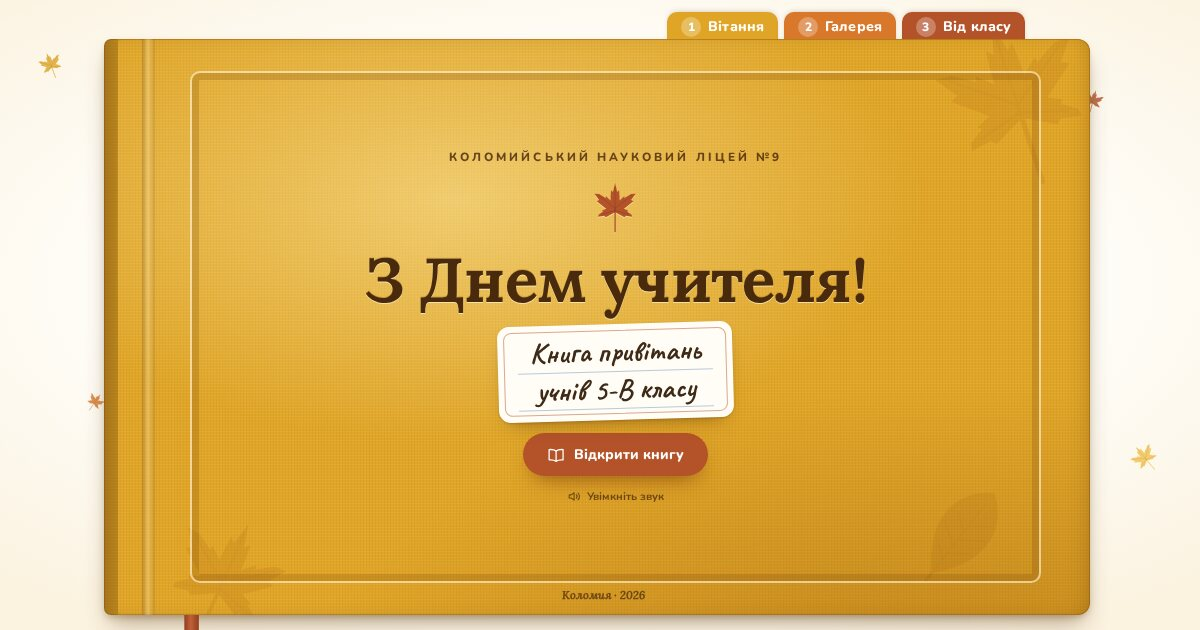
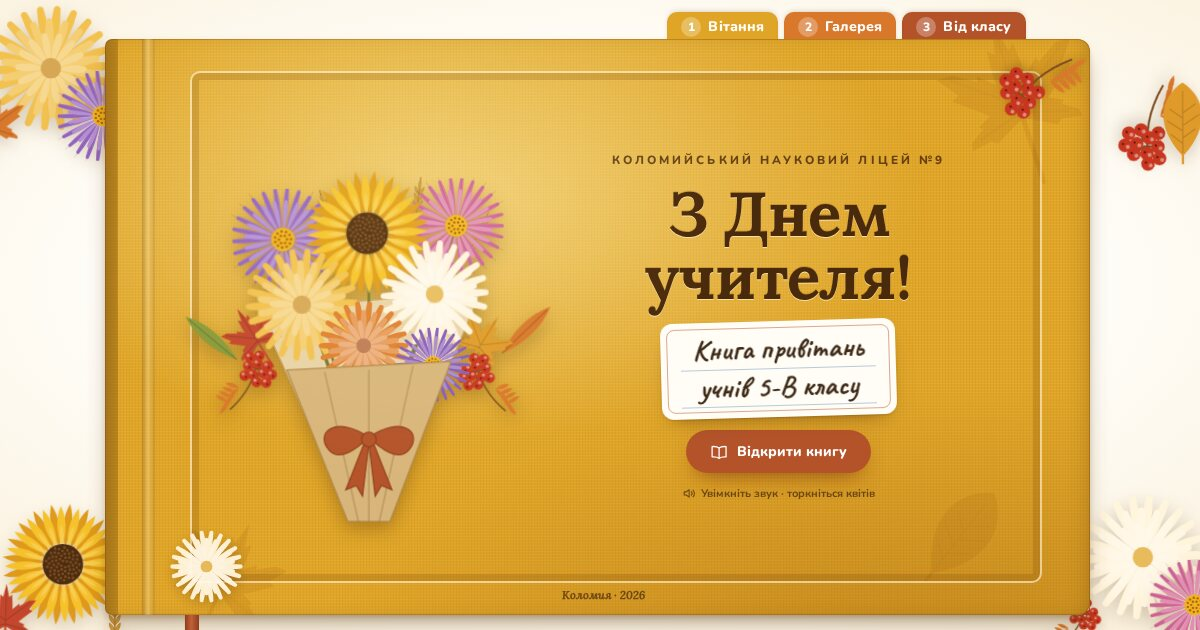
Нова обкладинка: осінній букет, квіти навколо книги, інтерактив
- Букет (хризантеми, айстри, соняшник, горобина, колоски, листя)
  у крафтовому папері зі стрічкою — ліворуч від назви; гілочки в кутах.
- Квіти гойдаються, на дотик розквітають і розсипають пелюстки
  (не відкриваючи книгу).
- Закрита книга нахиляється за курсором з відблиском на обкладинці.
- Квіти на столі навколо книги з паралаксом; клік по порожньому
  тлу «садить» нову квітку.
- Оновлено картинку-прев'ю для месенджерів.

Claude-Session: https://claude.ai/code/session_01BxhcAFmzjMHt8JaHSXT381

diff --git a/index.html b/index.html
@@ -196,11 +196,38 @@
         <path fill="#F3D9B1" stroke="none" d="M50 2l11 6-11 6z"/>
         <path fill="#4A3524" stroke="none" d="M57.4 6l3.6 2-3.6 2z"/>
       </symbol>
-    </defs>
+      <!-- Квіти -->
+    <symbol id="fl-chrys" viewBox="0 0 100 100"><path style="fill:currentColor" d="M54.0 50.0Q78.2 55.2 98.0 52.6Q101.1 50.0 98.0 47.4Q78.2 44.8 54.0 50.0ZM53.8 51.1Q75.6 62.9 95.3 66.0Q99.0 64.4 96.8 61.0Q78.5 53.0 53.8 51.1ZM53.4 52.2Q70.9 69.6 89.0 78.1Q93.0 77.6 91.8 73.8Q76.5 60.9 53.4 52.2ZM52.6 53.0Q64.5 74.7 79.5 88.0Q83.5 88.6 83.4 84.6Q72.4 67.9 52.6 53.0ZM51.7 53.6Q57.0 77.8 67.6 94.7Q71.2 96.5 72.3 92.6Q66.4 73.5 51.7 53.6ZM50.6 54.0Q48.9 78.7 54.3 97.9Q57.3 100.6 59.4 97.1Q59.2 77.2 50.6 54.0ZM49.4 54.0Q40.8 77.2 40.6 97.1Q42.7 100.6 45.7 97.9Q51.1 78.7 49.4 54.0ZM48.3 53.6Q33.6 73.5 27.7 92.6Q28.8 96.5 32.4 94.7Q43.0 77.8 48.3 53.6ZM47.4 53.0Q27.6 67.9 16.6 84.6Q16.5 88.6 20.5 88.0Q35.5 74.7 47.4 53.0ZM46.6 52.2Q23.5 60.9 8.2 73.8Q7.0 77.6 11.0 78.1Q29.1 69.6 46.6 52.2ZM46.2 51.1Q21.5 53.0 3.2 61.0Q1.0 64.4 4.7 66.0Q24.4 62.9 46.2 51.1ZM46.0 50.0Q21.8 44.8 2.0 47.4Q-1.1 50.0 2.0 52.6Q21.8 55.2 46.0 50.0ZM46.2 48.9Q24.4 37.1 4.7 34.0Q1.0 35.6 3.2 39.0Q21.5 47.0 46.2 48.9ZM46.6 47.8Q29.1 30.4 11.0 21.9Q7.0 22.4 8.2 26.2Q23.5 39.1 46.6 47.8ZM47.4 47.0Q35.5 25.3 20.5 12.0Q16.5 11.4 16.6 15.4Q27.6 32.1 47.4 47.0ZM48.3 46.4Q43.0 22.2 32.4 5.3Q28.8 3.5 27.7 7.4Q33.6 26.5 48.3 46.4ZM49.4 46.0Q51.1 21.3 45.7 2.1Q42.7 -0.6 40.6 2.9Q40.8 22.8 49.4 46.0ZM50.6 46.0Q59.2 22.8 59.4 2.9Q57.3 -0.6 54.3 2.1Q48.9 21.3 50.6 46.0ZM51.7 46.4Q66.4 26.5 72.3 7.4Q71.2 3.5 67.6 5.3Q57.0 22.2 51.7 46.4ZM52.6 47.0Q72.4 32.1 83.4 15.4Q83.5 11.4 79.5 12.0Q64.5 25.3 52.6 47.0ZM53.4 47.8Q76.5 39.1 91.8 26.2Q93.0 22.4 89.0 21.9Q70.9 30.4 53.4 47.8ZM53.8 48.9Q78.5 47.0 96.8 39.0Q99.0 35.6 95.3 34.0Q75.6 37.1 53.8 48.9Z"/><path style="fill:currentColor" d="M53.9 50.7Q71.5 58.9 87.0 59.1Q90.4 57.1 87.9 54.1Q73.2 49.0 53.9 50.7ZM53.5 52.0Q67.2 65.7 81.7 71.2Q85.5 70.5 84.2 66.8Q72.2 57.0 53.5 52.0ZM52.6 53.1Q60.8 70.6 72.5 80.7Q76.4 81.4 76.3 77.5Q68.4 64.2 52.6 53.1ZM51.4 53.8Q53.1 73.0 60.6 86.6Q64.0 88.5 65.3 84.9Q62.5 69.6 51.4 53.8ZM50.0 54.0Q45.0 72.7 47.5 88.0Q50.0 91.0 52.5 88.0Q55.0 72.7 50.0 54.0ZM48.6 53.8Q37.5 69.6 34.7 84.9Q36.0 88.5 39.4 86.6Q46.9 73.0 48.6 53.8ZM47.4 53.1Q31.6 64.2 23.7 77.5Q23.6 81.4 27.5 80.7Q39.2 70.6 47.4 53.1ZM46.5 52.0Q27.8 57.0 15.8 66.8Q14.5 70.5 18.3 71.2Q32.8 65.7 46.5 52.0ZM46.1 50.7Q26.8 49.0 12.1 54.1Q9.6 57.1 13.0 59.1Q28.5 58.9 46.1 50.7ZM46.1 49.3Q28.5 41.1 13.0 40.9Q9.6 42.9 12.1 45.9Q26.8 51.0 46.1 49.3ZM46.5 48.0Q32.8 34.3 18.3 28.8Q14.5 29.5 15.8 33.2Q27.8 43.0 46.5 48.0ZM47.4 46.9Q39.2 29.4 27.5 19.3Q23.6 18.6 23.7 22.5Q31.6 35.8 47.4 46.9ZM48.6 46.2Q46.9 27.0 39.4 13.4Q36.0 11.5 34.7 15.1Q37.5 30.4 48.6 46.2ZM50.0 46.0Q55.0 27.3 52.5 12.0Q50.0 9.0 47.5 12.0Q45.0 27.3 50.0 46.0ZM51.4 46.2Q62.5 30.4 65.3 15.1Q64.0 11.5 60.6 13.4Q53.1 27.0 51.4 46.2ZM52.6 46.9Q68.4 35.8 76.3 22.5Q76.4 18.6 72.5 19.3Q60.8 29.4 52.6 46.9ZM53.5 48.0Q72.2 43.0 84.2 33.2Q85.5 29.5 81.7 28.8Q67.2 34.3 53.5 48.0ZM53.9 49.3Q73.2 51.0 87.9 45.9Q90.4 42.9 87.0 40.9Q71.5 41.1 53.9 49.3Z"/><path fill="#fff" opacity=".22" d="M53.9 50.7Q71.5 58.9 87.0 59.1Q90.4 57.1 87.9 54.1Q73.2 49.0 53.9 50.7ZM53.5 52.0Q67.2 65.7 81.7 71.2Q85.5 70.5 84.2 66.8Q72.2 57.0 53.5 52.0ZM52.6 53.1Q60.8 70.6 72.5 80.7Q76.4 81.4 76.3 77.5Q68.4 64.2 52.6 53.1ZM51.4 53.8Q53.1 73.0 60.6 86.6Q64.0 88.5 65.3 84.9Q62.5 69.6 51.4 53.8ZM50.0 54.0Q45.0 72.7 47.5 88.0Q50.0 91.0 52.5 88.0Q55.0 72.7 50.0 54.0ZM48.6 53.8Q37.5 69.6 34.7 84.9Q36.0 88.5 39.4 86.6Q46.9 73.0 48.6 53.8ZM47.4 53.1Q31.6 64.2 23.7 77.5Q23.6 81.4 27.5 80.7Q39.2 70.6 47.4 53.1ZM46.5 52.0Q27.8 57.0 15.8 66.8Q14.5 70.5 18.3 71.2Q32.8 65.7 46.5 52.0ZM46.1 50.7Q26.8 49.0 12.1 54.1Q9.6 57.1 13.0 59.1Q28.5 58.9 46.1 50.7ZM46.1 49.3Q28.5 41.1 13.0 40.9Q9.6 42.9 12.1 45.9Q26.8 51.0 46.1 49.3ZM46.5 48.0Q32.8 34.3 18.3 28.8Q14.5 29.5 15.8 33.2Q27.8 43.0 46.5 48.0ZM47.4 46.9Q39.2 29.4 27.5 19.3Q23.6 18.6 23.7 22.5Q31.6 35.8 47.4 46.9ZM48.6 46.2Q46.9 27.0 39.4 13.4Q36.0 11.5 34.7 15.1Q37.5 30.4 48.6 46.2ZM50.0 46.0Q55.0 27.3 52.5 12.0Q50.0 9.0 47.5 12.0Q45.0 27.3 50.0 46.0ZM51.4 46.2Q62.5 30.4 65.3 15.1Q64.0 11.5 60.6 13.4Q53.1 27.0 51.4 46.2ZM52.6 46.9Q68.4 35.8 76.3 22.5Q76.4 18.6 72.5 19.3Q60.8 29.4 52.6 46.9ZM53.5 48.0Q72.2 43.0 84.2 33.2Q85.5 29.5 81.7 28.8Q67.2 34.3 53.5 48.0ZM53.9 49.3Q73.2 51.0 87.9 45.9Q90.4 42.9 87.0 40.9Q71.5 41.1 53.9 49.3Z"/><path style="fill:currentColor" d="M53.0 50.2Q65.8 55.7 76.8 54.2Q79.7 52.1 77.1 49.6Q66.5 46.5 53.0 50.2ZM52.6 51.5Q61.8 62.0 72.3 65.4Q75.8 64.8 74.6 61.4Q66.3 54.0 52.6 51.5ZM51.7 52.5Q55.4 65.9 63.4 73.5Q66.9 74.5 67.2 70.9Q63.0 60.7 51.7 52.5ZM50.5 53.0Q47.9 66.7 51.9 77.0Q54.6 79.4 56.4 76.3Q57.0 65.3 50.5 53.0ZM49.1 52.9Q40.9 64.2 40.0 75.2Q41.4 78.5 44.4 76.5Q49.7 66.8 49.1 52.9ZM48.0 52.2Q35.7 58.8 30.0 68.3Q29.9 71.9 33.4 71.4Q42.4 65.0 48.0 52.2ZM47.2 51.1Q33.2 51.7 24.1 57.9Q22.4 61.0 25.8 62.1Q36.7 60.3 47.2 51.1ZM47.0 49.8Q34.2 44.3 23.2 45.8Q20.3 47.9 22.9 50.4Q33.5 53.5 47.0 49.8ZM47.4 48.5Q38.2 38.0 27.7 34.6Q24.2 35.2 25.4 38.6Q33.7 46.0 47.4 48.5ZM48.3 47.5Q44.6 34.1 36.6 26.5Q33.1 25.5 32.8 29.1Q37.0 39.3 48.3 47.5ZM49.5 47.0Q52.1 33.3 48.1 23.0Q45.4 20.6 43.6 23.7Q43.0 34.7 49.5 47.0ZM50.9 47.1Q59.1 35.8 60.0 24.8Q58.6 21.5 55.6 23.5Q50.3 33.2 50.9 47.1ZM52.0 47.8Q64.3 41.2 70.0 31.7Q70.1 28.1 66.6 28.6Q57.6 35.0 52.0 47.8ZM52.8 48.9Q66.8 48.3 75.9 42.1Q77.6 39.0 74.2 37.9Q63.3 39.7 52.8 48.9Z"/><path fill="#fff" opacity=".38" d="M53.0 50.2Q65.8 55.7 76.8 54.2Q79.7 52.1 77.1 49.6Q66.5 46.5 53.0 50.2ZM52.6 51.5Q61.8 62.0 72.3 65.4Q75.8 64.8 74.6 61.4Q66.3 54.0 52.6 51.5ZM51.7 52.5Q55.4 65.9 63.4 73.5Q66.9 74.5 67.2 70.9Q63.0 60.7 51.7 52.5ZM50.5 53.0Q47.9 66.7 51.9 77.0Q54.6 79.4 56.4 76.3Q57.0 65.3 50.5 53.0ZM49.1 52.9Q40.9 64.2 40.0 75.2Q41.4 78.5 44.4 76.5Q49.7 66.8 49.1 52.9ZM48.0 52.2Q35.7 58.8 30.0 68.3Q29.9 71.9 33.4 71.4Q42.4 65.0 48.0 52.2ZM47.2 51.1Q33.2 51.7 24.1 57.9Q22.4 61.0 25.8 62.1Q36.7 60.3 47.2 51.1ZM47.0 49.8Q34.2 44.3 23.2 45.8Q20.3 47.9 22.9 50.4Q33.5 53.5 47.0 49.8ZM47.4 48.5Q38.2 38.0 27.7 34.6Q24.2 35.2 25.4 38.6Q33.7 46.0 47.4 48.5ZM48.3 47.5Q44.6 34.1 36.6 26.5Q33.1 25.5 32.8 29.1Q37.0 39.3 48.3 47.5ZM49.5 47.0Q52.1 33.3 48.1 23.0Q45.4 20.6 43.6 23.7Q43.0 34.7 49.5 47.0ZM50.9 47.1Q59.1 35.8 60.0 24.8Q58.6 21.5 55.6 23.5Q50.3 33.2 50.9 47.1ZM52.0 47.8Q64.3 41.2 70.0 31.7Q70.1 28.1 66.6 28.6Q57.6 35.0 52.0 47.8ZM52.8 48.9Q66.8 48.3 75.9 42.1Q77.6 39.0 74.2 37.9Q63.3 39.7 52.8 48.9Z"/><circle cx="50" cy="50" r="8" style="fill:var(--fc,#c98a1c)"/><circle cx="50" cy="50" r="8" fill="#fff" opacity=".25"/></symbol>
+    <symbol id="fl-aster" viewBox="0 0 100 100"><path style="fill:currentColor" d="M58.0 50.0Q81.1 53.6 100.0 51.8Q102.2 50.0 100.0 48.2Q81.1 46.4 58.0 50.0ZM57.8 51.9Q79.3 60.9 98.1 63.7Q100.6 62.5 99.0 60.2Q81.1 53.9 57.8 51.9ZM57.1 53.7Q75.9 67.6 93.4 74.8Q96.2 74.2 95.1 71.6Q79.2 61.3 57.1 53.7ZM56.0 55.3Q70.9 73.3 86.2 84.5Q89.0 84.6 88.6 81.8Q75.7 67.9 56.0 55.3ZM54.5 56.6Q64.7 77.6 76.9 92.2Q79.6 92.9 79.9 90.1Q70.6 73.5 54.5 56.6ZM52.8 57.5Q57.7 80.4 66.0 97.4Q68.5 98.8 69.4 96.1Q64.4 77.8 52.8 57.5ZM51.0 57.9Q50.2 81.3 54.2 99.9Q56.3 101.8 57.8 99.4Q57.3 80.4 51.0 57.9ZM49.0 57.9Q42.7 80.4 42.2 99.4Q43.7 101.8 45.8 99.9Q49.8 81.3 49.0 57.9ZM47.2 57.5Q35.6 77.8 30.6 96.1Q31.5 98.8 34.0 97.4Q42.3 80.4 47.2 57.5ZM45.5 56.6Q29.4 73.5 20.1 90.1Q20.4 92.9 23.1 92.2Q35.3 77.6 45.5 56.6ZM44.0 55.3Q24.3 67.9 11.4 81.8Q11.0 84.6 13.8 84.5Q29.1 73.3 44.0 55.3ZM42.9 53.7Q20.8 61.3 4.9 71.6Q3.8 74.2 6.6 74.8Q24.1 67.6 42.9 53.7ZM42.2 51.9Q18.9 53.9 1.0 60.2Q-0.6 62.5 1.9 63.7Q20.7 60.9 42.2 51.9ZM42.0 50.0Q18.9 46.4 -0.0 48.2Q-2.2 50.0 0.0 51.8Q18.9 53.6 42.0 50.0ZM42.2 48.1Q20.7 39.1 1.9 36.3Q-0.6 37.5 1.0 39.8Q18.9 46.1 42.2 48.1ZM42.9 46.3Q24.1 32.4 6.6 25.2Q3.8 25.8 4.9 28.4Q20.8 38.7 42.9 46.3ZM44.0 44.7Q29.1 26.7 13.8 15.5Q11.0 15.4 11.4 18.2Q24.3 32.1 44.0 44.7ZM45.5 43.4Q35.3 22.4 23.1 7.8Q20.4 7.1 20.1 9.9Q29.4 26.5 45.5 43.4ZM47.2 42.5Q42.3 19.6 34.0 2.6Q31.5 1.2 30.6 3.9Q35.6 22.2 47.2 42.5ZM49.0 42.1Q49.8 18.7 45.8 0.1Q43.7 -1.8 42.2 0.6Q42.7 19.6 49.0 42.1ZM51.0 42.1Q57.3 19.6 57.8 0.6Q56.3 -1.8 54.2 0.1Q50.2 18.7 51.0 42.1ZM52.8 42.5Q64.4 22.2 69.4 3.9Q68.5 1.2 66.0 2.6Q57.7 19.6 52.8 42.5ZM54.5 43.4Q70.6 26.5 79.9 9.9Q79.6 7.1 76.9 7.8Q64.7 22.4 54.5 43.4ZM56.0 44.7Q75.7 32.1 88.6 18.2Q89.0 15.4 86.2 15.5Q70.9 26.7 56.0 44.7ZM57.1 46.3Q79.2 38.7 95.1 28.4Q96.2 25.8 93.4 25.2Q75.9 32.4 57.1 46.3ZM57.8 48.1Q81.1 46.1 99.0 39.8Q100.6 37.5 98.1 36.3Q79.3 39.1 57.8 48.1Z"/><path fill="#000" opacity=".1" d="M64.0 50.0Q87.1 51.0 106.0 50.5Q106.6 50.0 106.0 49.5Q87.1 49.0 64.0 50.0ZM63.6 53.4Q85.8 59.8 104.3 63.9Q105.0 63.5 104.5 62.9Q86.3 57.9 63.6 53.4ZM62.4 56.5Q82.4 68.1 99.4 76.5Q100.1 76.3 99.8 75.6Q83.3 66.4 62.4 56.5ZM60.5 59.3Q77.1 75.4 91.6 87.5Q92.4 87.5 92.2 86.8Q78.4 73.9 60.5 59.3ZM58.0 61.5Q70.3 81.1 81.4 96.4Q82.2 96.6 82.2 95.8Q71.9 80.0 58.0 61.5ZM55.0 63.1Q62.2 85.0 69.4 102.5Q70.1 102.9 70.3 102.2Q64.1 84.3 55.0 63.1ZM51.7 63.9Q53.5 87.0 56.3 105.7Q56.8 106.2 57.2 105.5Q55.5 86.7 51.7 63.9ZM48.3 63.9Q44.5 86.7 42.8 105.5Q43.2 106.2 43.7 105.7Q46.5 87.0 48.3 63.9ZM45.0 63.1Q35.9 84.3 29.7 102.2Q29.9 102.9 30.6 102.5Q37.8 85.0 45.0 63.1ZM42.0 61.5Q28.1 80.0 17.8 95.8Q17.8 96.6 18.6 96.4Q29.7 81.1 42.0 61.5ZM39.5 59.3Q21.6 73.9 7.8 86.8Q7.6 87.5 8.4 87.5Q22.9 75.4 39.5 59.3ZM37.6 56.5Q16.7 66.4 0.2 75.6Q-0.1 76.3 0.6 76.5Q17.6 68.1 37.6 56.5ZM36.4 53.4Q13.7 57.9 -4.5 62.9Q-5.0 63.5 -4.3 63.9Q14.2 59.8 36.4 53.4ZM36.0 50.0Q12.9 49.0 -6.0 49.5Q-6.6 50.0 -6.0 50.5Q12.9 51.0 36.0 50.0ZM36.4 46.6Q14.2 40.2 -4.3 36.1Q-5.0 36.5 -4.5 37.1Q13.7 42.1 36.4 46.6ZM37.6 43.5Q17.6 31.9 0.6 23.5Q-0.1 23.7 0.2 24.4Q16.7 33.6 37.6 43.5ZM39.5 40.7Q22.9 24.6 8.4 12.5Q7.6 12.5 7.8 13.2Q21.6 26.1 39.5 40.7ZM42.0 38.5Q29.7 18.9 18.6 3.6Q17.8 3.4 17.8 4.2Q28.1 20.0 42.0 38.5ZM45.0 36.9Q37.8 15.0 30.6 -2.5Q29.9 -2.9 29.7 -2.2Q35.9 15.7 45.0 36.9ZM48.3 36.1Q46.5 13.0 43.7 -5.7Q43.2 -6.2 42.8 -5.5Q44.5 13.3 48.3 36.1ZM51.7 36.1Q55.5 13.3 57.2 -5.5Q56.8 -6.2 56.3 -5.7Q53.5 13.0 51.7 36.1ZM55.0 36.9Q64.1 15.7 70.3 -2.2Q70.1 -2.9 69.4 -2.5Q62.2 15.0 55.0 36.9ZM58.0 38.5Q71.9 20.0 82.2 4.2Q82.2 3.4 81.4 3.6Q70.3 18.9 58.0 38.5ZM60.5 40.7Q78.4 26.1 92.2 13.2Q92.4 12.5 91.6 12.5Q77.1 24.6 60.5 40.7ZM62.4 43.5Q83.3 33.6 99.8 24.4Q100.1 23.7 99.4 23.5Q82.4 31.9 62.4 43.5ZM63.6 46.6Q86.3 42.1 104.5 37.1Q105.0 36.5 104.3 36.1Q85.8 40.2 63.6 46.6Z"/><path style="fill:currentColor" d="M57.9 51.0Q73.9 56.4 87.5 56.3Q89.7 54.9 87.9 52.9Q74.7 49.6 57.9 51.0ZM57.3 53.4Q70.8 63.4 83.7 67.6Q86.3 66.9 85.2 64.5Q73.6 57.3 57.3 53.4ZM55.9 55.5Q65.6 69.2 76.6 77.2Q79.3 77.3 79.0 74.7Q70.2 64.2 55.9 55.5ZM53.9 57.0Q58.9 73.1 66.9 84.1Q69.4 85.0 69.9 82.4Q64.9 69.8 53.9 57.0ZM51.5 57.9Q51.3 74.7 55.6 87.6Q57.6 89.3 58.9 87.0Q58.0 73.4 51.5 57.9ZM49.0 57.9Q43.6 73.9 43.7 87.5Q45.1 89.7 47.1 87.9Q50.4 74.7 49.0 57.9ZM46.6 57.3Q36.6 70.8 32.4 83.7Q33.1 86.3 35.5 85.2Q42.7 73.6 46.6 57.3ZM44.5 55.9Q30.8 65.6 22.8 76.6Q22.7 79.3 25.3 79.0Q35.8 70.2 44.5 55.9ZM43.0 53.9Q26.9 58.9 15.9 66.9Q15.0 69.4 17.6 69.9Q30.2 64.9 43.0 53.9ZM42.1 51.5Q25.3 51.3 12.4 55.6Q10.7 57.6 13.0 58.9Q26.6 58.0 42.1 51.5ZM42.1 49.0Q26.1 43.6 12.5 43.7Q10.3 45.1 12.1 47.1Q25.3 50.4 42.1 49.0ZM42.7 46.6Q29.2 36.6 16.3 32.4Q13.7 33.1 14.8 35.5Q26.4 42.7 42.7 46.6ZM44.1 44.5Q34.4 30.8 23.4 22.8Q20.7 22.7 21.0 25.3Q29.8 35.8 44.1 44.5ZM46.1 43.0Q41.1 26.9 33.1 15.9Q30.6 15.0 30.1 17.6Q35.1 30.2 46.1 43.0ZM48.5 42.1Q48.7 25.3 44.4 12.4Q42.4 10.7 41.1 13.0Q42.0 26.6 48.5 42.1ZM51.0 42.1Q56.4 26.1 56.3 12.5Q54.9 10.3 52.9 12.1Q49.6 25.3 51.0 42.1ZM53.4 42.7Q63.4 29.2 67.6 16.3Q66.9 13.7 64.5 14.8Q57.3 26.4 53.4 42.7ZM55.5 44.1Q69.2 34.4 77.2 23.4Q77.3 20.7 74.7 21.0Q64.2 29.8 55.5 44.1ZM57.0 46.1Q73.1 41.1 84.1 33.1Q85.0 30.6 82.4 30.1Q69.8 35.1 57.0 46.1ZM57.9 48.5Q74.7 48.7 87.6 44.4Q89.3 42.4 87.0 41.1Q73.4 42.0 57.9 48.5Z"/><path fill="#fff" opacity=".25" d="M57.9 51.0Q73.9 56.4 87.5 56.3Q89.7 54.9 87.9 52.9Q74.7 49.6 57.9 51.0ZM57.3 53.4Q70.8 63.4 83.7 67.6Q86.3 66.9 85.2 64.5Q73.6 57.3 57.3 53.4ZM55.9 55.5Q65.6 69.2 76.6 77.2Q79.3 77.3 79.0 74.7Q70.2 64.2 55.9 55.5ZM53.9 57.0Q58.9 73.1 66.9 84.1Q69.4 85.0 69.9 82.4Q64.9 69.8 53.9 57.0ZM51.5 57.9Q51.3 74.7 55.6 87.6Q57.6 89.3 58.9 87.0Q58.0 73.4 51.5 57.9ZM49.0 57.9Q43.6 73.9 43.7 87.5Q45.1 89.7 47.1 87.9Q50.4 74.7 49.0 57.9ZM46.6 57.3Q36.6 70.8 32.4 83.7Q33.1 86.3 35.5 85.2Q42.7 73.6 46.6 57.3ZM44.5 55.9Q30.8 65.6 22.8 76.6Q22.7 79.3 25.3 79.0Q35.8 70.2 44.5 55.9ZM43.0 53.9Q26.9 58.9 15.9 66.9Q15.0 69.4 17.6 69.9Q30.2 64.9 43.0 53.9ZM42.1 51.5Q25.3 51.3 12.4 55.6Q10.7 57.6 13.0 58.9Q26.6 58.0 42.1 51.5ZM42.1 49.0Q26.1 43.6 12.5 43.7Q10.3 45.1 12.1 47.1Q25.3 50.4 42.1 49.0ZM42.7 46.6Q29.2 36.6 16.3 32.4Q13.7 33.1 14.8 35.5Q26.4 42.7 42.7 46.6ZM44.1 44.5Q34.4 30.8 23.4 22.8Q20.7 22.7 21.0 25.3Q29.8 35.8 44.1 44.5ZM46.1 43.0Q41.1 26.9 33.1 15.9Q30.6 15.0 30.1 17.6Q35.1 30.2 46.1 43.0ZM48.5 42.1Q48.7 25.3 44.4 12.4Q42.4 10.7 41.1 13.0Q42.0 26.6 48.5 42.1ZM51.0 42.1Q56.4 26.1 56.3 12.5Q54.9 10.3 52.9 12.1Q49.6 25.3 51.0 42.1ZM53.4 42.7Q63.4 29.2 67.6 16.3Q66.9 13.7 64.5 14.8Q57.3 26.4 53.4 42.7ZM55.5 44.1Q69.2 34.4 77.2 23.4Q77.3 20.7 74.7 21.0Q64.2 29.8 55.5 44.1ZM57.0 46.1Q73.1 41.1 84.1 33.1Q85.0 30.6 82.4 30.1Q69.8 35.1 57.0 46.1ZM57.9 48.5Q74.7 48.7 87.6 44.4Q89.3 42.4 87.0 41.1Q73.4 42.0 57.9 48.5Z"/><circle cx="50" cy="50" r="11.5" fill="#f2b31e"/><circle cx="54.0" cy="50.0" r="1.3" fill="#a8640e"/><circle cx="52.0" cy="53.5" r="1.3" fill="#a8640e"/><circle cx="48.0" cy="53.5" r="1.3" fill="#a8640e"/><circle cx="46.0" cy="50.0" r="1.3" fill="#a8640e"/><circle cx="48.0" cy="46.5" r="1.3" fill="#a8640e"/><circle cx="52.0" cy="46.5" r="1.3" fill="#a8640e"/><circle cx="58.0" cy="50.0" r="1.3" fill="#a8640e"/><circle cx="56.7" cy="54.3" r="1.3" fill="#a8640e"/><circle cx="53.3" cy="57.3" r="1.3" fill="#a8640e"/><circle cx="48.9" cy="57.9" r="1.3" fill="#a8640e"/><circle cx="44.8" cy="56.0" r="1.3" fill="#a8640e"/><circle cx="42.3" cy="52.3" r="1.3" fill="#a8640e"/><circle cx="42.3" cy="47.7" r="1.3" fill="#a8640e"/><circle cx="44.8" cy="44.0" r="1.3" fill="#a8640e"/><circle cx="48.9" cy="42.1" r="1.3" fill="#a8640e"/><circle cx="53.3" cy="42.7" r="1.3" fill="#a8640e"/><circle cx="56.7" cy="45.7" r="1.3" fill="#a8640e"/></symbol>
+    <symbol id="fl-sun" viewBox="0 0 100 100"><path fill="#e09a1b" d="M63.8 52.2Q81.3 61.5 97.4 57.5Q83.3 48.7 63.8 52.2ZM62.5 56.4Q76.2 70.6 92.8 71.8Q82.1 59.1 62.5 56.4ZM59.9 59.9Q68.5 77.7 83.9 83.9Q77.7 68.5 59.9 59.9ZM56.4 62.5Q59.1 82.1 71.8 92.8Q70.6 76.2 56.4 62.5ZM52.2 63.8Q48.7 83.3 57.5 97.4Q61.5 81.3 52.2 63.8ZM47.8 63.8Q38.5 81.3 42.5 97.4Q51.3 83.3 47.8 63.8ZM43.6 62.5Q29.4 76.2 28.2 92.8Q40.9 82.1 43.6 62.5ZM40.1 59.9Q22.3 68.5 16.1 83.9Q31.5 77.7 40.1 59.9ZM37.5 56.4Q17.9 59.1 7.2 71.8Q23.8 70.6 37.5 56.4ZM36.2 52.2Q16.7 48.7 2.6 57.5Q18.7 61.5 36.2 52.2ZM36.2 47.8Q18.7 38.5 2.6 42.5Q16.7 51.3 36.2 47.8ZM37.5 43.6Q23.8 29.4 7.2 28.2Q17.9 40.9 37.5 43.6ZM40.1 40.1Q31.5 22.3 16.1 16.1Q22.3 31.5 40.1 40.1ZM43.6 37.5Q40.9 17.9 28.2 7.2Q29.4 23.8 43.6 37.5ZM47.8 36.2Q51.3 16.7 42.5 2.6Q38.5 18.7 47.8 36.2ZM52.2 36.2Q61.5 18.7 57.5 2.6Q48.7 16.7 52.2 36.2ZM56.4 37.5Q70.6 23.8 71.8 7.2Q59.1 17.9 56.4 37.5ZM59.9 40.1Q77.7 31.5 83.9 16.1Q68.5 22.3 59.9 40.1ZM62.5 43.6Q82.1 40.9 92.8 28.2Q76.2 29.4 62.5 43.6ZM63.8 47.8Q83.3 51.3 97.4 42.5Q81.3 38.5 63.8 47.8Z"/><path fill="#f6c22c" d="M64.0 50.0Q81.6 56.5 96.0 50.0Q81.6 43.5 64.0 50.0ZM63.3 54.3Q78.0 65.9 93.7 64.2Q82.1 53.6 63.3 54.3ZM61.3 58.2Q71.7 73.8 87.2 77.0Q79.4 63.3 61.3 58.2ZM58.2 61.3Q63.3 79.4 77.0 87.2Q73.8 71.7 58.2 61.3ZM54.3 63.3Q53.6 82.1 64.2 93.7Q65.9 78.0 54.3 63.3ZM50.0 64.0Q43.5 81.6 50.0 96.0Q56.5 81.6 50.0 64.0ZM45.7 63.3Q34.1 78.0 35.8 93.7Q46.4 82.1 45.7 63.3ZM41.8 61.3Q26.2 71.7 23.0 87.2Q36.7 79.4 41.8 61.3ZM38.7 58.2Q20.6 63.3 12.8 77.0Q28.3 73.8 38.7 58.2ZM36.7 54.3Q17.9 53.6 6.3 64.2Q22.0 65.9 36.7 54.3ZM36.0 50.0Q18.4 43.5 4.0 50.0Q18.4 56.5 36.0 50.0ZM36.7 45.7Q22.0 34.1 6.3 35.8Q17.9 46.4 36.7 45.7ZM38.7 41.8Q28.3 26.2 12.8 23.0Q20.6 36.7 38.7 41.8ZM41.8 38.7Q36.7 20.6 23.0 12.8Q26.2 28.3 41.8 38.7ZM45.7 36.7Q46.4 17.9 35.8 6.3Q34.1 22.0 45.7 36.7ZM50.0 36.0Q56.5 18.4 50.0 4.0Q43.5 18.4 50.0 36.0ZM54.3 36.7Q65.9 22.0 64.2 6.3Q53.6 17.9 54.3 36.7ZM58.2 38.7Q73.8 28.3 77.0 12.8Q63.3 20.6 58.2 38.7ZM61.3 41.8Q79.4 36.7 87.2 23.0Q71.7 26.2 61.3 41.8ZM63.3 45.7Q82.1 46.4 93.7 35.8Q78.0 34.1 63.3 45.7Z"/><path fill="#fff" opacity=".18" d="M64.0 50.0Q73.9 53.0 82.0 50.0Q73.9 47.0 64.0 50.0ZM63.3 54.3Q71.8 60.2 80.4 59.9Q73.7 54.5 63.3 54.3ZM61.3 58.2Q67.6 66.5 75.9 68.8Q71.1 61.6 61.3 58.2ZM58.2 61.3Q61.6 71.1 68.8 75.9Q66.5 67.6 58.2 61.3ZM54.3 63.3Q54.5 73.7 59.9 80.4Q60.2 71.8 54.3 63.3ZM50.0 64.0Q47.0 73.9 50.0 82.0Q53.0 73.9 50.0 64.0ZM45.7 63.3Q39.8 71.8 40.1 80.4Q45.5 73.7 45.7 63.3ZM41.8 61.3Q33.5 67.6 31.2 75.9Q38.4 71.1 41.8 61.3ZM38.7 58.2Q28.9 61.6 24.1 68.8Q32.4 66.5 38.7 58.2ZM36.7 54.3Q26.3 54.5 19.6 59.9Q28.2 60.2 36.7 54.3ZM36.0 50.0Q26.1 47.0 18.0 50.0Q26.1 53.0 36.0 50.0ZM36.7 45.7Q28.2 39.8 19.6 40.1Q26.3 45.5 36.7 45.7ZM38.7 41.8Q32.4 33.5 24.1 31.2Q28.9 38.4 38.7 41.8ZM41.8 38.7Q38.4 28.9 31.2 24.1Q33.5 32.4 41.8 38.7ZM45.7 36.7Q45.5 26.3 40.1 19.6Q39.8 28.2 45.7 36.7ZM50.0 36.0Q53.0 26.1 50.0 18.0Q47.0 26.1 50.0 36.0ZM54.3 36.7Q60.2 28.2 59.9 19.6Q54.5 26.3 54.3 36.7ZM58.2 38.7Q66.5 32.4 68.8 24.1Q61.6 28.9 58.2 38.7ZM61.3 41.8Q71.1 38.4 75.9 31.2Q67.6 33.5 61.3 41.8ZM63.3 45.7Q73.7 45.5 80.4 40.1Q71.8 39.8 63.3 45.7Z"/><circle cx="50" cy="50" r="16" fill="#4e2c12"/><circle cx="48.7" cy="51.2" r="1.05" fill="#8a5a24" opacity=".75"/><circle cx="50.2" cy="47.5" r="1.05" fill="#8a5a24" opacity=".75"/><circle cx="51.8" cy="52.4" r="1.05" fill="#8a5a24" opacity=".75"/><circle cx="46.6" cy="49.4" r="1.05" fill="#8a5a24" opacity=".75"/><circle cx="53.3" cy="47.9" r="1.05" fill="#8a5a24" opacity=".75"/><circle cx="48.9" cy="54.1" r="1.05" fill="#8a5a24" opacity=".75"/><circle cx="47.9" cy="45.9" r="1.05" fill="#8a5a24" opacity=".75"/><circle cx="54.6" cy="51.7" r="1.05" fill="#8a5a24" opacity=".75"/><circle cx="45.1" cy="52.0" r="1.05" fill="#8a5a24" opacity=".75"/><circle cx="52.3" cy="45.0" r="1.05" fill="#8a5a24" opacity=".75"/><circle cx="51.7" cy="55.5" r="1.05" fill="#8a5a24" opacity=".75"/><circle cx="44.8" cy="47.0" r="1.05" fill="#8a5a24" opacity=".75"/><circle cx="56.2" cy="48.6" r="1.05" fill="#8a5a24" opacity=".75"/><circle cx="46.2" cy="55.4" r="1.05" fill="#8a5a24" opacity=".75"/><circle cx="49.1" cy="43.3" r="1.05" fill="#8a5a24" opacity=".75"/><circle cx="55.4" cy="54.5" r="1.05" fill="#8a5a24" opacity=".75"/><circle cx="42.8" cy="50.3" r="1.05" fill="#8a5a24" opacity=".75"/><circle cx="55.3" cy="44.8" r="1.05" fill="#8a5a24" opacity=".75"/><circle cx="49.6" cy="57.6" r="1.05" fill="#8a5a24" opacity=".75"/><circle cx="45.0" cy="44.0" r="1.05" fill="#8a5a24" opacity=".75"/><circle cx="57.9" cy="51.1" r="1.05" fill="#8a5a24" opacity=".75"/><circle cx="43.3" cy="54.7" r="1.05" fill="#8a5a24" opacity=".75"/><circle cx="51.8" cy="41.8" r="1.05" fill="#8a5a24" opacity=".75"/><circle cx="54.3" cy="57.4" r="1.05" fill="#8a5a24" opacity=".75"/><circle cx="41.7" cy="47.3" r="1.05" fill="#8a5a24" opacity=".75"/><circle cx="58.1" cy="46.3" r="1.05" fill="#8a5a24" opacity=".75"/><circle cx="46.5" cy="58.4" r="1.05" fill="#8a5a24" opacity=".75"/><circle cx="46.9" cy="41.3" r="1.05" fill="#8a5a24" opacity=".75"/><circle cx="58.3" cy="54.4" r="1.05" fill="#8a5a24" opacity=".75"/><circle cx="40.7" cy="52.4" r="1.05" fill="#8a5a24" opacity=".75"/><circle cx="55.3" cy="41.8" r="1.05" fill="#8a5a24" opacity=".75"/><circle cx="51.7" cy="59.8" r="1.05" fill="#8a5a24" opacity=".75"/><circle cx="42.1" cy="43.8" r="1.05" fill="#8a5a24" opacity=".75"/><circle cx="60.2" cy="49.2" r="1.05" fill="#8a5a24" opacity=".75"/><circle cx="43.0" cy="57.6" r="1.05" fill="#8a5a24" opacity=".75"/><circle cx="50.1" cy="39.5" r="1.05" fill="#8a5a24" opacity=".75"/><circle cx="57.2" cy="57.9" r="1.05" fill="#8a5a24" opacity=".75"/><circle cx="39.3" cy="49.0" r="1.05" fill="#8a5a24" opacity=".75"/><circle cx="58.7" cy="43.4" r="1.05" fill="#8a5a24" opacity=".75"/><circle cx="48.0" cy="60.9" r="1.05" fill="#8a5a24" opacity=".75"/><circle cx="44.0" cy="40.5" r="1.05" fill="#8a5a24" opacity=".75"/><circle cx="60.9" cy="53.0" r="1.05" fill="#8a5a24" opacity=".75"/><circle cx="39.8" cy="55.2" r="1.05" fill="#8a5a24" opacity=".75"/><circle cx="54.0" cy="39.1" r="1.05" fill="#8a5a24" opacity=".75"/><circle cx="54.4" cy="60.9" r="1.05" fill="#8a5a24" opacity=".75"/><circle cx="39.3" cy="44.9" r="1.05" fill="#8a5a24" opacity=".75"/><circle cx="61.5" cy="46.5" r="1.05" fill="#8a5a24" opacity=".75"/><circle cx="43.9" cy="60.5" r="1.05" fill="#8a5a24" opacity=".75"/><circle cx="47.4" cy="38.0" r="1.05" fill="#8a5a24" opacity=".75"/><circle cx="60.1" cy="57.2" r="1.05" fill="#8a5a24" opacity=".75"/><circle cx="37.6" cy="51.5" r="1.05" fill="#8a5a24" opacity=".75"/><circle cx="58.2" cy="40.4" r="1.05" fill="#8a5a24" opacity=".75"/><circle cx="50.5" cy="62.7" r="1.05" fill="#8a5a24" opacity=".75"/><circle cx="41.0" cy="40.8" r="1.05" fill="#8a5a24" opacity=".75"/><circle cx="63.0" cy="50.7" r="1.05" fill="#8a5a24" opacity=".75"/><circle cx="39.9" cy="58.3" r="1.05" fill="#8a5a24" opacity=".75"/><circle cx="51.8" cy="36.9" r="1.05" fill="#8a5a24" opacity=".75"/><circle cx="57.6" cy="61.0" r="1.05" fill="#8a5a24" opacity=".75"/><circle cx="36.9" cy="47.0" r="1.05" fill="#8a5a24" opacity=".75"/><circle cx="61.8" cy="43.3" r="1.05" fill="#8a5a24" opacity=".75"/><circle cx="45.8" cy="63.0" r="1.05" fill="#8a5a24" opacity=".75"/><circle cx="44.3" cy="37.5" r="1.05" fill="#8a5a24" opacity=".75"/><circle cx="62.8" cy="55.4" r="1.05" fill="#8a5a24" opacity=".75"/></symbol>
+    <symbol id="fl-rowan" viewBox="0 0 100 100"><path fill="none" stroke="#7a4a20" stroke-width="1.6" stroke-linecap="round" d="M50 40Q46 70 20 92M50 52L40 48M50 52L60 49M50 56L48 65M47 58L36 58M53 57L64 58M50 45L52 38M50 45L42 39"/><path fill="#d9772b" d="M30.0 70.0Q23.6 63.4 15.9 64.9Q20.9 70.9 30.0 70.0ZM30.0 70.0Q21.1 72.2 18.5 79.6Q26.3 78.4 30.0 70.0ZM26.0 75.0Q20.1 68.0 12.3 68.9Q16.8 75.3 26.0 75.0ZM26.0 75.0Q17.3 77.9 15.2 85.4Q22.8 83.6 26.0 75.0ZM22.0 80.0Q16.6 72.6 8.8 73.0Q12.8 79.7 22.0 80.0ZM22.0 80.0Q13.5 83.5 12.0 91.1Q19.5 88.8 22.0 80.0ZM18.0 85.0Q13.1 77.2 5.3 77.1Q8.9 84.0 18.0 85.0ZM18.0 85.0Q9.8 89.0 8.8 96.8Q16.1 94.0 18.0 85.0Z"/><circle cx="40" cy="48" r="5.4" fill="#c8361f"/><circle cx="38.4" cy="46.2" r="1.6" fill="#fff" opacity=".45"/><circle cx="41.2" cy="49.6" r=".9" fill="#5a1408"/><circle cx="50" cy="46" r="5.4" fill="#c8361f"/><circle cx="48.4" cy="44.2" r="1.6" fill="#fff" opacity=".45"/><circle cx="51.2" cy="47.6" r=".9" fill="#5a1408"/><circle cx="60" cy="49" r="5.4" fill="#c8361f"/><circle cx="58.4" cy="47.2" r="1.6" fill="#fff" opacity=".45"/><circle cx="61.2" cy="50.6" r=".9" fill="#5a1408"/><circle cx="44" cy="57" r="5.4" fill="#c8361f"/><circle cx="42.4" cy="55.2" r="1.6" fill="#fff" opacity=".45"/><circle cx="45.2" cy="58.6" r=".9" fill="#5a1408"/><circle cx="55" cy="56" r="5.4" fill="#c8361f"/><circle cx="53.4" cy="54.2" r="1.6" fill="#fff" opacity=".45"/><circle cx="56.2" cy="57.6" r=".9" fill="#5a1408"/><circle cx="48" cy="65" r="5.4" fill="#c8361f"/><circle cx="46.4" cy="63.2" r="1.6" fill="#fff" opacity=".45"/><circle cx="49.2" cy="66.6" r=".9" fill="#5a1408"/><circle cx="36" cy="58" r="5.4" fill="#c8361f"/><circle cx="34.4" cy="56.2" r="1.6" fill="#fff" opacity=".45"/><circle cx="37.2" cy="59.6" r=".9" fill="#5a1408"/><circle cx="64" cy="58" r="5.4" fill="#c8361f"/><circle cx="62.4" cy="56.2" r="1.6" fill="#fff" opacity=".45"/><circle cx="65.2" cy="59.6" r=".9" fill="#5a1408"/><circle cx="58" cy="66" r="5.4" fill="#c8361f"/><circle cx="56.4" cy="64.2" r="1.6" fill="#fff" opacity=".45"/><circle cx="59.2" cy="67.6" r=".9" fill="#5a1408"/><circle cx="52" cy="38" r="5.4" fill="#c8361f"/><circle cx="50.4" cy="36.2" r="1.6" fill="#fff" opacity=".45"/><circle cx="53.2" cy="39.6" r=".9" fill="#5a1408"/><circle cx="42" cy="39" r="5.4" fill="#c8361f"/><circle cx="40.4" cy="37.2" r="1.6" fill="#fff" opacity=".45"/><circle cx="43.2" cy="40.6" r=".9" fill="#5a1408"/></symbol>
+    <symbol id="fl-wheat" viewBox="0 0 100 100"><path fill="none" stroke="#b9862f" stroke-width="1.8" stroke-linecap="round" d="M50 98V18M50 18L50 6"/><path fill="#d29b35" stroke="#a8742a" stroke-width=".8" d="M50.0 30.0Q49.6 22.1 43.9 18.5Q43.6 25.3 50.0 30.0ZM50.0 30.0Q56.4 25.3 56.1 18.5Q50.4 22.1 50.0 30.0ZM50.0 39.0Q49.6 31.1 43.9 27.5Q43.6 34.3 50.0 39.0ZM50.0 39.0Q56.4 34.3 56.1 27.5Q50.4 31.1 50.0 39.0ZM50.0 48.0Q49.6 40.1 43.9 36.5Q43.6 43.3 50.0 48.0ZM50.0 48.0Q56.4 43.3 56.1 36.5Q50.4 40.1 50.0 48.0ZM50.0 57.0Q49.6 49.1 43.9 45.5Q43.6 52.3 50.0 57.0ZM50.0 57.0Q56.4 52.3 56.1 45.5Q50.4 49.1 50.0 57.0ZM50.0 66.0Q49.6 58.1 43.9 54.5Q43.6 61.3 50.0 66.0ZM50.0 66.0Q56.4 61.3 56.1 54.5Q50.4 58.1 50.0 66.0ZM50.0 75.0Q49.6 67.1 43.9 63.5Q43.6 70.3 50.0 75.0ZM50.0 75.0Q56.4 70.3 56.1 63.5Q50.4 67.1 50.0 75.0Z"/><path fill="#d29b35" stroke="#a8742a" stroke-width=".8" d="M50.0 22.0Q53.2 15.4 50.0 10.0Q46.8 15.4 50.0 22.0Z"/></symbol>
+    <symbol id="fl-leafy" viewBox="0 0 100 100"><path style="fill:currentColor" d="M50.0 95.0Q66.0 51.0 50.0 15.0Q34.0 51.0 50.0 95.0Z"/><path fill="none" stroke="#000" stroke-opacity=".18" stroke-width="1.4" d="M50 95V20"/></symbol>
+  </defs>
   </svg>
 
   <!-- Стіл: білий фон і осіннє листя -->
   <div class="desk" aria-hidden="true">
+    <div class="flora flora--tl" style="--depth:14">
+      <svg viewBox="0 0 100 100" class="flora__a" style="color:#f2c14e;--fc:#c98a1c"><use href="#fl-chrys"/></svg>
+      <svg viewBox="0 0 100 100" class="flora__b" style="color:#9b6bc4"><use href="#fl-aster"/></svg>
+      <svg viewBox="0 0 100 100" class="flora__c" style="color:#d9772b"><use href="#leaf-maple"/></svg>
+    </div>
+    <div class="flora flora--tr" style="--depth:10">
+      <svg viewBox="0 0 100 100" class="flora__a"><use href="#fl-rowan"/></svg>
+      <svg viewBox="0 0 100 100" class="flora__b" style="color:#e09a2a"><use href="#leaf-oval"/></svg>
+    </div>
+    <div class="flora flora--bl" style="--depth:18">
+      <svg viewBox="0 0 100 100" class="flora__a"><use href="#fl-sun"/></svg>
+      <svg viewBox="0 0 100 100" class="flora__b"><use href="#fl-wheat"/></svg>
+      <svg viewBox="0 0 100 100" class="flora__c" style="color:#c4472d"><use href="#leaf-maple"/></svg>
+    </div>
+    <div class="flora flora--br" style="--depth:12">
+      <svg viewBox="0 0 100 100" class="flora__a" style="color:#fff4dc;--fc:#e0a526"><use href="#fl-chrys"/></svg>
+      <svg viewBox="0 0 100 100" class="flora__b" style="color:#d66a9a"><use href="#fl-aster"/></svg>
+      <svg viewBox="0 0 100 100" class="flora__c"><use href="#fl-rowan"/></svg>
+    </div>
+    <div class="garden" id="garden"></div>
     <div class="leaves" id="leaves"></div>
   </div>
 
@@ -365,7 +392,41 @@
               <svg class="cover__deco cover__deco--1" aria-hidden="true"><use href="#leaf-maple"/></svg>
               <svg class="cover__deco cover__deco--2" aria-hidden="true"><use href="#leaf-oval"/></svg>
               <svg class="cover__deco cover__deco--3" aria-hidden="true"><use href="#leaf-maple"/></svg>
+              <svg class="cover__corner cover__corner--tr" viewBox="0 0 100 100" aria-hidden="true"><use href="#fl-rowan"/></svg>
+              <svg class="cover__corner cover__corner--bl" viewBox="0 0 100 100" aria-hidden="true" style="color:#fff4dc;--fc:#e0a526"><use href="#fl-chrys"/></svg>
               <div class="cover__frame">
+                <div class="cover__art">
+              <svg class="bouquet" viewBox="0 0 300 390" aria-hidden="true">
+                <path class="bouquet__paper-back" d="M44 178 L256 162 L168 372 L132 372 Z"/>
+                <g class="fl" style="--d:.2s"><use href="#fl-wheat" x="96" y="18" width="70" height="150" transform="rotate(-14 131 168)"/></g>
+                <g class="fl" style="--d:.6s"><use href="#fl-wheat" x="150" y="8" width="70" height="150" transform="rotate(9 185 158)"/></g>
+                <g class="fl" style="--d:1s"><use href="#fl-wheat" x="190" y="34" width="62" height="140" transform="rotate(26 221 174)"/></g>
+                <g class="fl" style="color:#8a9a3b;--d:.4s"><use href="#fl-leafy" x="10" y="110" width="80" height="140" transform="rotate(-48 50 250)"/></g>
+                <g class="fl" style="color:#d9772b;--d:.9s"><use href="#fl-leafy" x="212" y="104" width="80" height="140" transform="rotate(46 252 244)"/></g>
+                <g class="fl" style="color:#c4472d;--d:.3s"><use href="#leaf-maple" x="6" y="168" width="74" height="74" transform="rotate(-30 43 205)"/></g>
+                <g class="fl" style="color:#e09a2a;--d:1.2s"><use href="#leaf-maple" x="222" y="176" width="70" height="70" transform="rotate(32 257 211)"/></g>
+                <path class="bouquet__stems" d="M70 112 L146 330 M232 104 L154 330 M150 110 L150 330 M88 168 L146 330 M214 160 L154 330 M112 214 L148 330 M194 212 L152 330"/>
+                <g class="fl" data-petal="#7f4fb0" style="color:#9b6bc4;--d:.5s"><use href="#fl-aster" x="22" y="64" width="96" height="96"/></g>
+                <g class="fl" data-petal="#c4507f" style="color:#d66a9a;--d:1.1s"><use href="#fl-aster" x="188" y="54" width="90" height="90"/></g>
+                <g class="fl" data-petal="#f6c22c" style="--d:0s"><use href="#fl-sun" x="88" y="44" width="124" height="124"/></g>
+                <g class="fl" data-petal="#f2c14e" style="color:#f2c14e;--fc:#c98a1c;--d:.7s"><use href="#fl-chrys" x="34" y="120" width="108" height="108"/></g>
+                <g class="fl" data-petal="#fff4dc" style="color:#fff4dc;--fc:#e0a526;--d:.15s"><use href="#fl-chrys" x="162" y="112" width="104" height="104"/></g>
+                <g class="fl" data-petal="#d9772b" style="color:#e07f30;--fc:#a8501c;--d:.85s"><use href="#fl-chrys" x="102" y="170" width="86" height="86"/></g>
+                <g class="fl" data-petal="#c8361f" style="--d:.45s"><use href="#fl-rowan" x="0" y="188" width="92" height="92"/></g>
+                <g class="fl" data-petal="#c8361f" style="--d:1.3s"><use href="#fl-rowan" x="206" y="190" width="92" height="92" transform="translate(504 0) scale(-1 1)"/></g>
+                <g class="fl" data-petal="#7f4fb0" style="color:#8e63bd;--d:.95s"><use href="#fl-aster" x="176" y="196" width="70" height="70"/></g>
+                <path class="bouquet__paper" d="M72 236 L228 228 L170 380 L130 380 Z"/>
+                <path class="bouquet__fold" d="M150 236 L150 380 M108 238 L140 380 M192 232 L160 380"/>
+                <g class="bouquet__bow">
+                  <path d="M150 300 C118 278 98 296 112 312 C122 324 140 310 150 300 Z"/>
+                  <path d="M150 300 C182 278 202 296 188 312 C178 324 160 310 150 300 Z"/>
+                  <path d="M147 302 L128 350 L138 346 L144 356 L150 306 Z"/>
+                  <path d="M153 302 L172 350 L162 346 L156 356 L150 306 Z"/>
+                  <circle cx="150" cy="302" r="7"/>
+                </g>
+              </svg>
+                </div>
+                <div class="cover__text">
                 <p class="cover__school">Коломийський науковий ліцей №9</p>
                 <svg class="cover__emblem" aria-hidden="true"><use href="#leaf-maple"/></svg>
                 <h1 class="cover__title">З Днем учителя!</h1>
@@ -377,7 +438,8 @@
                   <svg class="ico" aria-hidden="true"><use href="#i-book"/></svg>
                   Відкрити книгу
                 </button>
-                <p class="cover__hint"><svg class="ico" aria-hidden="true"><use href="#u-sound"/></svg>Увімкніть звук</p>
+                <p class="cover__hint"><svg class="ico" aria-hidden="true"><use href="#u-sound"/></svg>Увімкніть звук · торкніться квітів</p>
+                </div>
               </div>
               <p class="cover__place">Коломия · 2026</p>
             </section>

diff --git a/css/style.css b/css/style.css
@@ -108,6 +108,49 @@ video:focus-visible { outline: 3px solid var(--ochre); outline-offset: 3px; }
   to { transform: translateX(26px) rotate(var(--r2)); }
 }
 
+/* квіти на столі навколо книги */
+.flora {
+  position: absolute;
+  width: clamp(130px, 17vw, 280px);
+  height: clamp(130px, 17vw, 280px);
+  transform: translate(calc(var(--px, 0) * var(--depth) * 1px), calc(var(--py, 0) * var(--depth) * 1px));
+  transition: transform .6s ease-out;
+}
+
+.flora svg {
+  position: absolute;
+  overflow: visible;
+  filter: drop-shadow(0 6px 8px rgba(90, 55, 10, .22));
+  animation: fl-sway 6s ease-in-out infinite alternate;
+  transform-origin: 50% 80%;
+}
+
+.flora__a { width: 62%; height: 62%; left: 18%; top: 18%; }
+.flora__b { width: 44%; height: 44%; left: 52%; top: 50%; animation-delay: -2s !important; }
+.flora__c { width: 40%; height: 40%; left: 0; top: 56%; animation-delay: -4s !important; }
+
+.flora--tl { left: -4vw; top: -5vh; }
+.flora--tr { right: -3vw; top: -4vh; transform-origin: center; }
+.flora--tr .flora__a { transform: rotate(160deg); animation: none; }
+.flora--bl { left: -3vw; bottom: -6vh; }
+.flora--br { right: -4vw; bottom: -5vh; }
+
+/* квіти, «посаджені» кліком по столу */
+.garden { position: absolute; inset: 0; }
+
+.planted {
+  position: absolute;
+  width: var(--s);
+  height: var(--s);
+  margin: calc(var(--s) / -2) 0 0 calc(var(--s) / -2);
+  animation: plant-in .9s cubic-bezier(.3, 1.5, .5, 1) both, plant-out 1.2s ease-in 9s forwards;
+}
+
+.planted svg { display: block; width: 100%; height: 100%; filter: drop-shadow(0 4px 5px rgba(90, 55, 10, .25)); }
+
+@keyframes plant-in { from { transform: scale(0) rotate(-120deg); } to { transform: scale(1) rotate(var(--r, 0deg)); } }
+@keyframes plant-out { to { opacity: 0; transform: scale(.6) rotate(var(--r, 0deg)) translateY(30px); } }
+
 /* ---------- Каркас ---------- */
 
 .app {
@@ -1349,6 +1392,111 @@ video:focus-visible { outline: 3px solid var(--ochre); outline-offset: 3px; }
   text-shadow: 0 1px 0 rgba(255, 238, 190, .75), 0 -1px 0 rgba(90, 50, 5, .22);
 }
 
+/* обкладинка: букет ліворуч, текст праворуч */
+.cover__emblem { display: none; }
+.cover__frame { flex-direction: row; gap: 3cqw; padding: 2.5% 4% 2.5% 2%; }
+
+.cover__art {
+  flex: 0 0 40%;
+  align-self: stretch;
+  display: grid;
+  place-items: center;
+  min-width: 0;
+}
+
+.cover__text {
+  flex: 1;
+  display: flex;
+  flex-direction: column;
+  align-items: center;
+  justify-content: center;
+  gap: 2.3cqh;
+  min-width: 0;
+}
+
+.bouquet {
+  width: 100%;
+  height: 100%;
+  max-height: 86cqh;
+  overflow: visible;
+  filter: drop-shadow(0 1.4cqh 1.6cqh rgba(90, 50, 5, .35));
+}
+
+.bouquet__paper-back { fill: #e9d3a6; stroke: #c9a66a; stroke-width: 1.2; }
+.bouquet__paper { fill: #d8b57a; stroke: #b08a4c; stroke-width: 1.2; }
+.bouquet__fold { fill: none; stroke: rgba(120, 80, 30, .28); stroke-width: 1.4; }
+.bouquet__stems { fill: none; stroke: #6f7a2e; stroke-width: 2.4; stroke-linecap: round; }
+.bouquet__bow { fill: #b4532a; stroke: #8f3d1c; stroke-width: 1; }
+
+/* кожна квітка гойдається і реагує на дотик */
+.fl {
+  transform-box: fill-box;
+  transform-origin: 50% 90%;
+  animation: fl-sway 5s ease-in-out var(--d, 0s) infinite alternate;
+  cursor: pointer;
+}
+
+.fl:hover { animation: fl-wiggle .7s ease-in-out; }
+.fl.is-bloom { animation: fl-bloom .8s cubic-bezier(.3, 1.6, .5, 1); }
+
+@keyframes fl-sway { from { transform: rotate(-2.2deg); } to { transform: rotate(2.2deg); } }
+@keyframes fl-wiggle {
+  0%, 100% { transform: rotate(0); }
+  25% { transform: rotate(-7deg); }
+  60% { transform: rotate(6deg); }
+}
+@keyframes fl-bloom {
+  0% { transform: scale(1); }
+  40% { transform: scale(1.22) rotate(8deg); }
+  100% { transform: scale(1) rotate(0); }
+}
+
+.cover__corner {
+  position: absolute;
+  z-index: 1;
+  pointer-events: none;
+  filter: drop-shadow(0 4px 5px rgba(90, 50, 5, .3));
+}
+
+.cover__corner--tr { top: -1cqh; right: 1cqw; width: 22cqh; height: 22cqh; transform: rotate(200deg); }
+.cover__corner--bl { bottom: 2cqh; left: 5.5cqw; width: 13cqh; height: 13cqh; opacity: .95; }
+
+/* відблиск і нахил закритої книги за курсором */
+.cover::before {
+  content: "";
+  position: absolute;
+  inset: 0;
+  z-index: 3;
+  pointer-events: none;
+  background: radial-gradient(circle at var(--gx, 30%) var(--gy, 20%), rgba(255, 250, 225, .32), rgba(255, 250, 225, 0) 42%);
+  mix-blend-mode: soft-light;
+}
+
+.book.is-closed {
+  transform: perspective(1800px) rotateX(var(--rx, 0deg)) rotateY(var(--ry, 0deg));
+  transition: transform .25s ease-out;
+}
+
+.book { transition: transform .5s ease; }
+
+@container book (max-aspect-ratio: 1/1) {
+  .cover__frame { flex-direction: column; gap: 1.6cqh; padding: 4% 4%; }
+  .cover .cover__art { display: block; flex: none; height: 36%; width: 100%; align-self: center; }
+  .cover .cover__text { flex: 1 1 0; min-height: 0; }
+  .cover .bouquet { height: 100%; width: 100%; }
+  .cover .cover__text { gap: 1.5cqh; }
+  .cover .cover__title { font-size: clamp(30px, 8.2cqh, 80px); }
+  .cover .label__line { font-size: clamp(18px, 4.2cqh, 40px); }
+  .cover .label { padding: 1.4cqh 3cqh 1.6cqh; }
+  .cover .cover__hint { display: none; }
+  .cover__corner--tr { width: 16cqh; height: 16cqh; }
+  .cover__corner--bl { display: none; }
+}
+
+@container book (max-height: 420px) {
+  .cover__corner { display: none; }
+}
+
 /* наклейка, як на шкільному зошиті */
 .label {
   position: relative;
@@ -1679,5 +1827,8 @@ video:focus-visible { outline: 3px solid var(--ochre); outline-offset: 3px; }
   .book__ribbon { animation: none; }
   .leaves { display: none; }
   .btn--open,
-  .gpill { animation: none; }
+  .gpill,
+  .fl,
+  .flora svg { animation: none; }
+  .book.is-closed { transform: none; }
 }

diff --git a/js/app.js b/js/app.js
@@ -313,7 +313,7 @@
   const LEAF_COLORS = ['#E0A526', '#F2C14E', '#D9772B', '#B4532A', '#C4472D', '#E8B04A', '#A8742A'];
 
   /* ---------- Листочки-«конфеті» з точки натискання ---------- */
-  function leafPop(x, y, count) {
+  function leafPop(x, y, count, color) {
     if (reduceMotion.matches) return;
     for (let i = 0; i < (count || 8); i++) {
       const el = document.createElement('div');
@@ -327,9 +327,11 @@
         '--dy:' + (Math.sin(angle) * dist + 40).toFixed(0) + 'px',
         '--r:' + rand(-260, 260).toFixed(0) + 'deg',
         '--s:' + rand(12, 22).toFixed(0) + 'px',
-        'color:' + LEAF_COLORS[i % LEAF_COLORS.length],
+        'color:' + (color && i % 3 ? color : LEAF_COLORS[i % LEAF_COLORS.length]),
       ].join(';');
-      el.innerHTML = '<svg viewBox="0 0 100 100"><use href="#' + (i % 3 ? 'leaf-maple' : 'leaf-oval') + '"/></svg>';
+      el.innerHTML = color && i % 3
+        ? '<svg viewBox="0 0 100 100"><ellipse cx="50" cy="50" rx="18" ry="42" fill="currentColor"/></svg>'
+        : '<svg viewBox="0 0 100 100"><use href="#' + (i % 3 ? 'leaf-maple' : 'leaf-oval') + '"/></svg>';
       el.addEventListener('animationend', () => el.remove());
       document.body.appendChild(el);
     }
@@ -824,6 +826,62 @@
       box.appendChild(el);
     }
   }
+
+  /* ---------- Обкладинка й стіл: квіти, нахил, «садок» ---------- */
+  $$('.bouquet .fl').forEach((fl) => {
+    fl.addEventListener('click', (e) => {
+      e.stopPropagation(); // квіти не відкривають книгу
+      fl.classList.remove('is-bloom');
+      void fl.getBoundingClientRect();
+      fl.classList.add('is-bloom');
+      const r = fl.getBoundingClientRect();
+      leafPop(r.left + r.width / 2, r.top + r.height / 2, 10, fl.dataset.petal || '#f2c14e');
+    });
+    fl.addEventListener('animationend', () => fl.classList.remove('is-bloom'));
+  });
+
+  const desk = $('.desk');
+  const garden = $('#garden');
+  let tiltFrame = 0;
+  document.addEventListener('pointermove', (e) => {
+    if (e.pointerType !== 'mouse' || reduceMotion.matches) return;
+    cancelAnimationFrame(tiltFrame);
+    tiltFrame = requestAnimationFrame(() => {
+      const nx = e.clientX / window.innerWidth - 0.5;
+      const ny = e.clientY / window.innerHeight - 0.5;
+      desk.style.setProperty('--px', (-nx).toFixed(3));
+      desk.style.setProperty('--py', (-ny).toFixed(3));
+      if (state.page !== 0) return;
+      const r = book.getBoundingClientRect();
+      const bx = clamp((e.clientX - r.left) / r.width, 0, 1);
+      const by = clamp((e.clientY - r.top) / r.height, 0, 1);
+      book.style.setProperty('--ry', ((bx - 0.5) * 7).toFixed(2) + 'deg');
+      book.style.setProperty('--rx', ((0.5 - by) * 5).toFixed(2) + 'deg');
+      book.style.setProperty('--gx', (bx * 100).toFixed(1) + '%');
+      book.style.setProperty('--gy', (by * 100).toFixed(1) + '%');
+    });
+  });
+  document.addEventListener('pointerleave', () => {
+    book.style.setProperty('--rx', '0deg');
+    book.style.setProperty('--ry', '0deg');
+  });
+
+  /* клік по порожньому столу «садить» квітку */
+  const PLANTS = [['fl-chrys', '#f2c14e'], ['fl-chrys', '#fff4dc'], ['fl-chrys', '#e07f30'], ['fl-aster', '#9b6bc4'],
+    ['fl-aster', '#d66a9a'], ['fl-sun', ''], ['fl-rowan', ''], ['leaf-maple', '#c4472d']];
+  $('.stage').addEventListener('click', (e) => {
+    if (e.target.closest('.book') || reduceMotion.matches) return;
+    const [id, color] = PLANTS[Math.floor(Math.random() * PLANTS.length)];
+    const el = document.createElement('div');
+    el.className = 'planted';
+    el.style.cssText = 'left:' + e.clientX + 'px;top:' + e.clientY + 'px;--s:' + rand(46, 84).toFixed(0) + 'px;--r:' +
+      rand(-25, 25).toFixed(0) + 'deg;color:' + (color || 'inherit');
+    el.innerHTML = '<svg viewBox="0 0 100 100"><use href="#' + id + '"/></svg>';
+    el.addEventListener('animationend', (ev) => { if (ev.animationName === 'plant-out') el.remove(); });
+    garden.appendChild(el);
+    while (garden.children.length > 24) garden.firstElementChild.remove();
+    leafPop(e.clientX, e.clientY, 6, color || '#f2c14e');
+  });
 
   /* ---------- Не гасити екран під час показу ---------- */
   let wakeLock = null;
